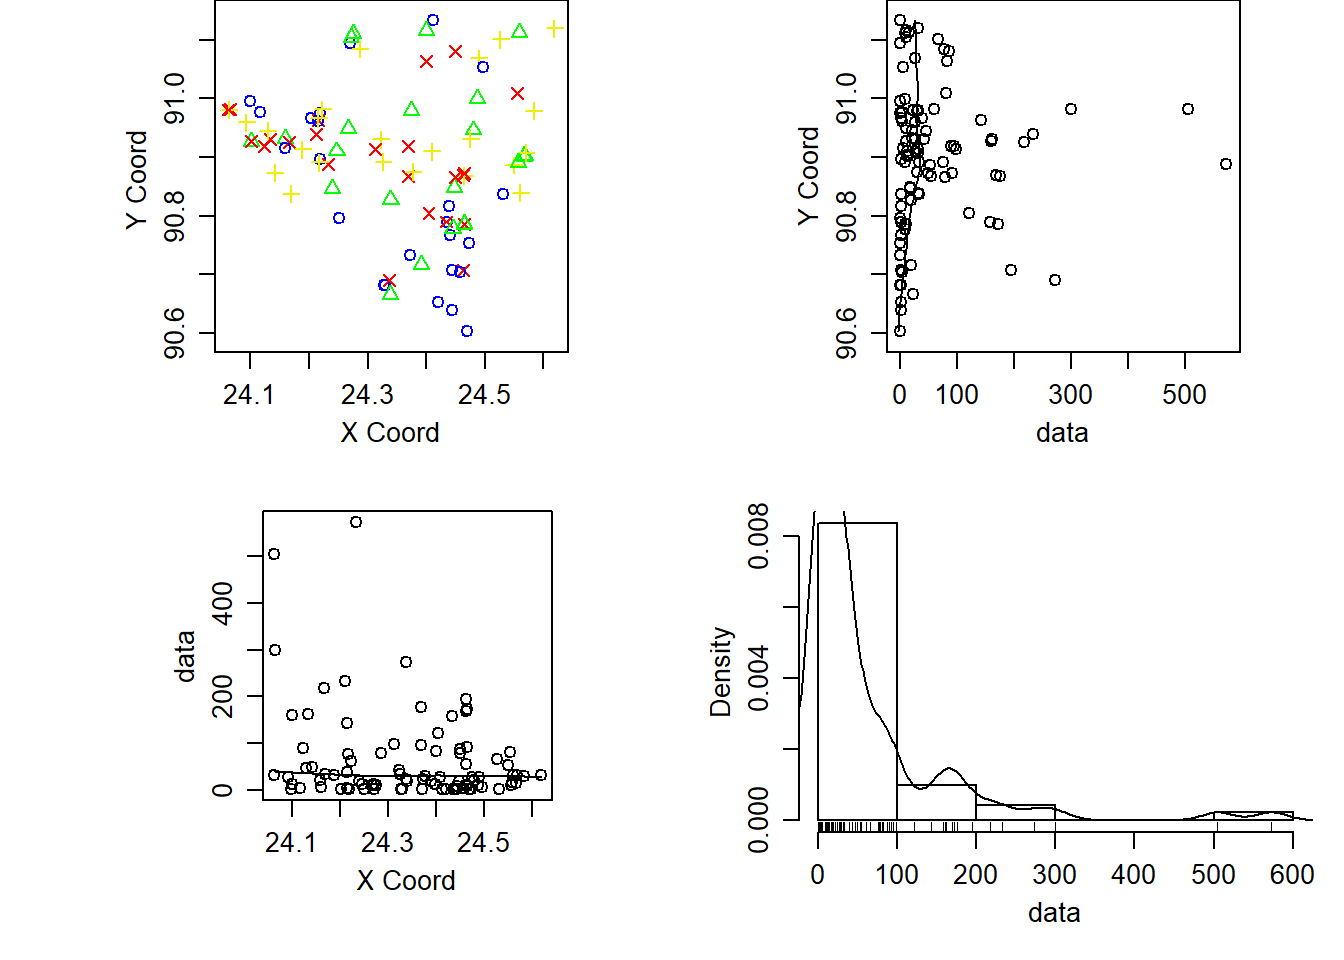
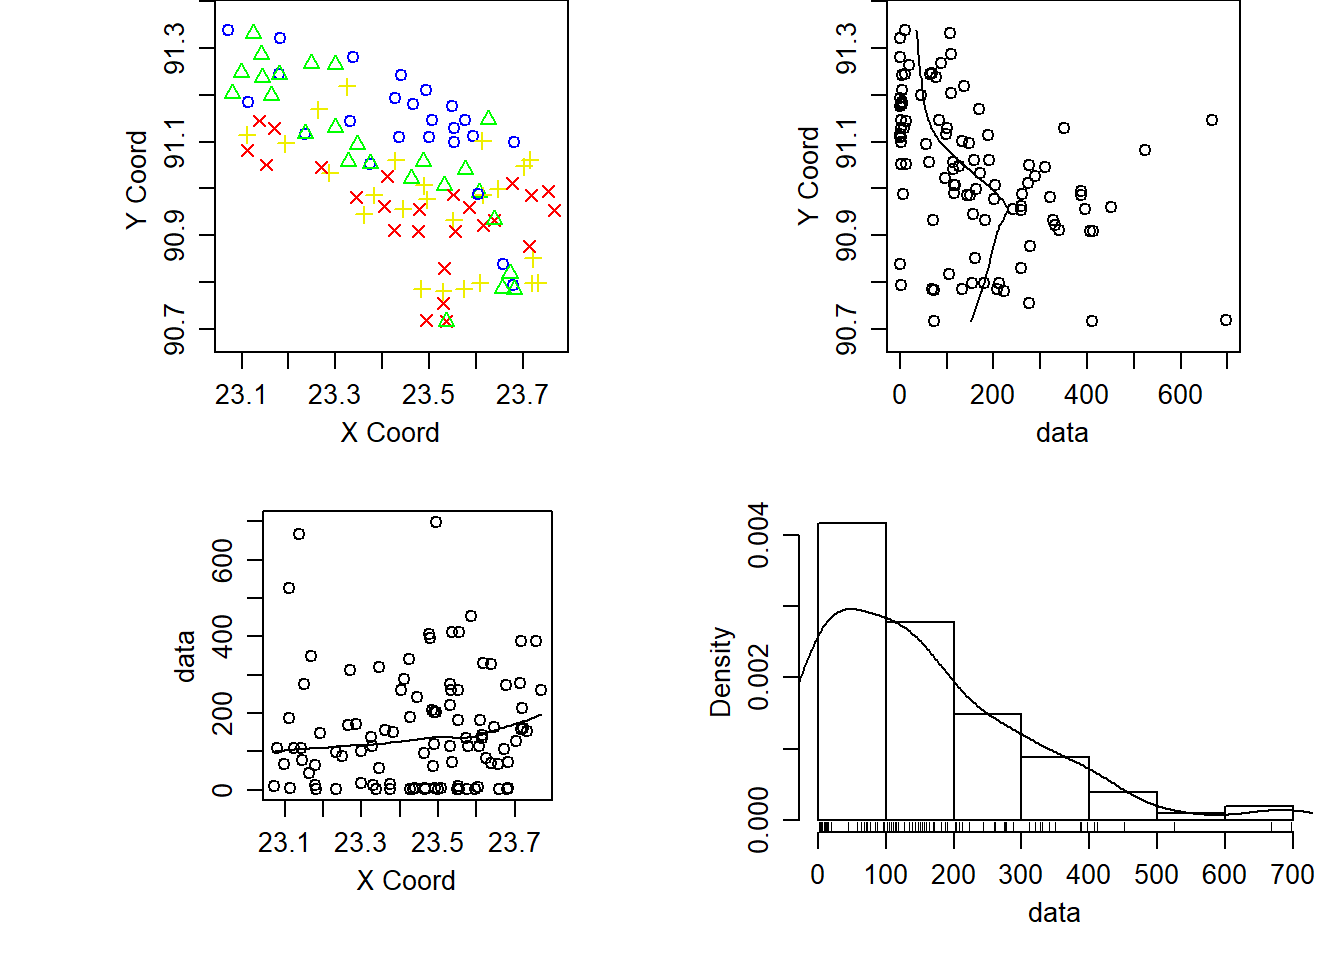
add bangladesh all

diff --git a/2019/02/08/eda/index.html b/2019/02/08/eda/index.html
@@ -282,7 +282,13 @@ kishoreganj &lt;- district$Kishoreganj</code></pre>
 <p>We first do a quick data display with exploratory checks on spatial patterns, trends in the coordinates, and distribution of the data. We are using the default plot for a geodata object in <code>geoR::plot.geodata</code>. The lowess argument adds a smooth line to the upper right scatter plot (data value vs y value) and to the lower left scatter plot (x value vs data value). The upper left plot shows color coded data quartile at the location of the data, fefault colors for the quartiles in the first plot are (from 1st to 4th) <span style="color:blue">blue</span>, <span style="color:green">green</span>, <span style="color:gold">yellow</span> and <span style="color:red">red</span>.</p>
 <p>Now, we extract useful information from the dataframe and convert them into <code>geodata</code> and <code>plot</code>.</p>
 <pre class="r"><code>library(geoR)
-com &lt;- as.geodata(comilla[,c(1,2,6)])</code></pre>
+bang &lt;- as.geodata(noncensor[,c(1,2,6)])</code></pre>
+<pre><code>## as.geodata: 81 replicated data locations found. 
+##  Consider using jitterDupCoords() for jittering replicated locations. 
+## WARNING: there are data at coincident or very closed locations, some of the geoR&#39;s functions may not work.
+##  Use function dup.coords() to locate duplicated coordinates.
+##  Consider using jitterDupCoords() for jittering replicated locations</code></pre>
+<pre class="r"><code>com &lt;- as.geodata(comilla[,c(1,2,6)])</code></pre>
 <pre><code>## as.geodata: 8 replicated data locations found. 
 ##  Consider using jitterDupCoords() for jittering replicated locations. 
 ## WARNING: there are data at coincident or very closed locations, some of the geoR&#39;s functions may not work.
@@ -290,10 +296,12 @@ com &lt;- as.geodata(comilla[,c(1,2,6)])</code></pre>
 ##  Consider using jitterDupCoords() for jittering replicated locations</code></pre>
 <pre class="r"><code>kis &lt;- as.geodata(kishoreganj[,c(1,2,6)])
 
-plot(com, lowess = TRUE)</code></pre>
+plot(bang, lowess = TRUE)</code></pre>
 <p><img src="/post/2019-02-08-eda_files/figure-html/geor_plot-1.png" width="672" /></p>
-<pre class="r"><code>plot(kis, lowess = TRUE)</code></pre>
+<pre class="r"><code>plot(com, lowess = TRUE)</code></pre>
 <p><img src="/post/2019-02-08-eda_files/figure-html/geor_plot-2.png" width="672" /></p>
+<pre class="r"><code>plot(kis, lowess = TRUE)</code></pre>
+<p><img src="/post/2019-02-08-eda_files/figure-html/geor_plot-3.png" width="672" /></p>
 <p>As we can see from the plot, there is no pattern can be found on the plot and the data are highly skewed.</p>
 </div>
 <div id="ggplot2-implementation" class="section level4">
